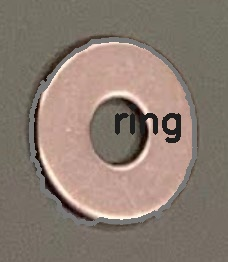
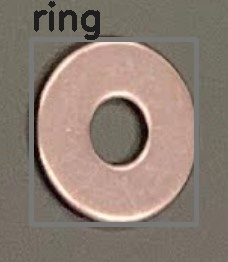
made it optional to show bounding box vs contours

diff --git a/conventional/Conventional.py b/conventional/Conventional.py
@@ -169,23 +169,30 @@ for img in images:
     for contour in range(len(img.contours)):
         if img.contours[contour].kind_of_object == 'check valve':
             color = blue[1]
+            text_color = black[1]
         elif img.contours[contour].color == 'white':
             color = white[1]
+            text_color = black[1]
         elif img.contours[contour].color == 'black':
             color = black[1]
+            text_color = white[1]
         elif img.contours[contour].color == 'pink':
+            text_color = black[1]
             color = pink[1]
         else:
+            text_color = black[1]
             color = metal[1]
 
-        cv.drawContours(img.cv_image, img.contours[contour].outline, -1, color, 3)
+
+        # -=-=- Draw bounding box with text -=-=- #
+        x,y,w,h = cv.boundingRect(img.contours[contour].outline)
+        cv.rectangle(img.cv_image, (x,y), (x+w,y+h), color, 3)
+        cv.putText(img.cv_image, img.contours[contour].kind_of_object, (x, y-10), cv.FONT_HERSHEY_SIMPLEX, 1.2, text_color, 4)
+
+        # -=-=- Draw contour with text -=-=- #
+        # cv.drawContours(img.cv_image, img.contours[contour].outline, -1, color, 2)
+        # cv.putText(img.cv_image, img.contours[contour].kind_of_object, img.contours[contour].position, cv.FONT_HERSHEY_SIMPLEX, 1.2, text_color, 4)
         
-        if img.contours[contour].color == 'black':
-            color = white[1]
-        else:
-            color = black[1]
-        
-        cv.putText(img.cv_image, img.contours[contour].kind_of_object, img.contours[contour].position, cv.FONT_HERSHEY_SIMPLEX, 1.2, color, 4)
     
     # -=-=- save image -=-=- #
     output_dir  = os.path.join(root_dir,'output_conventional', img.name)
